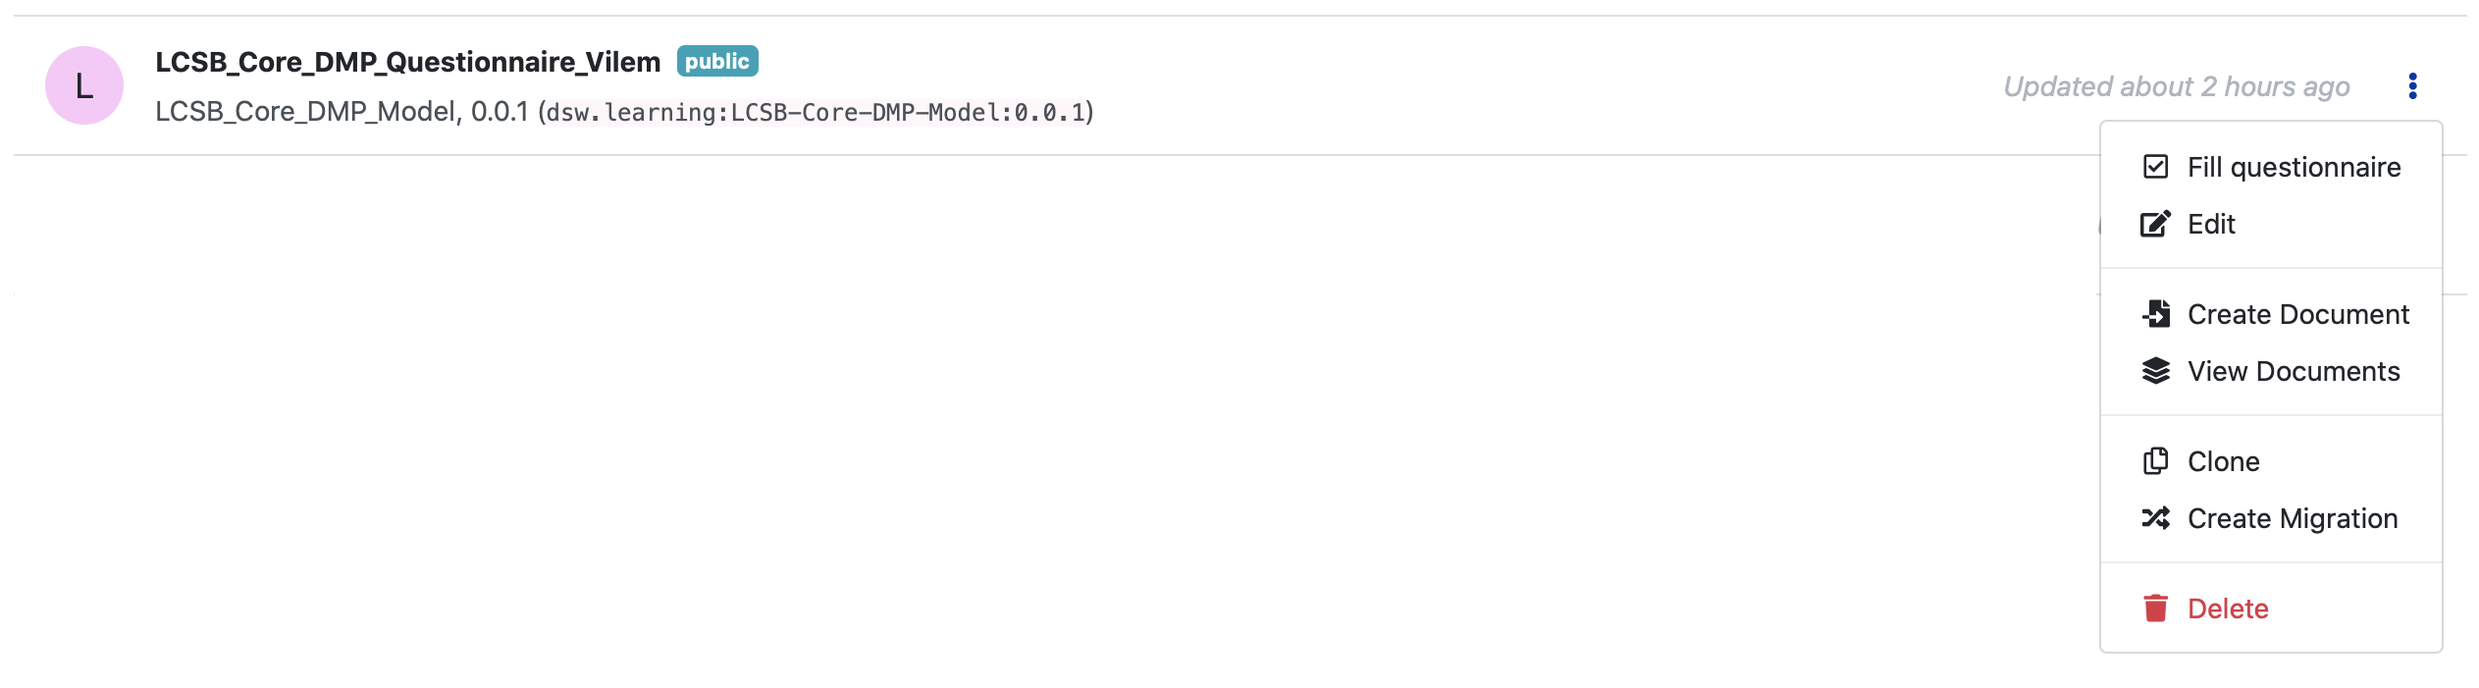
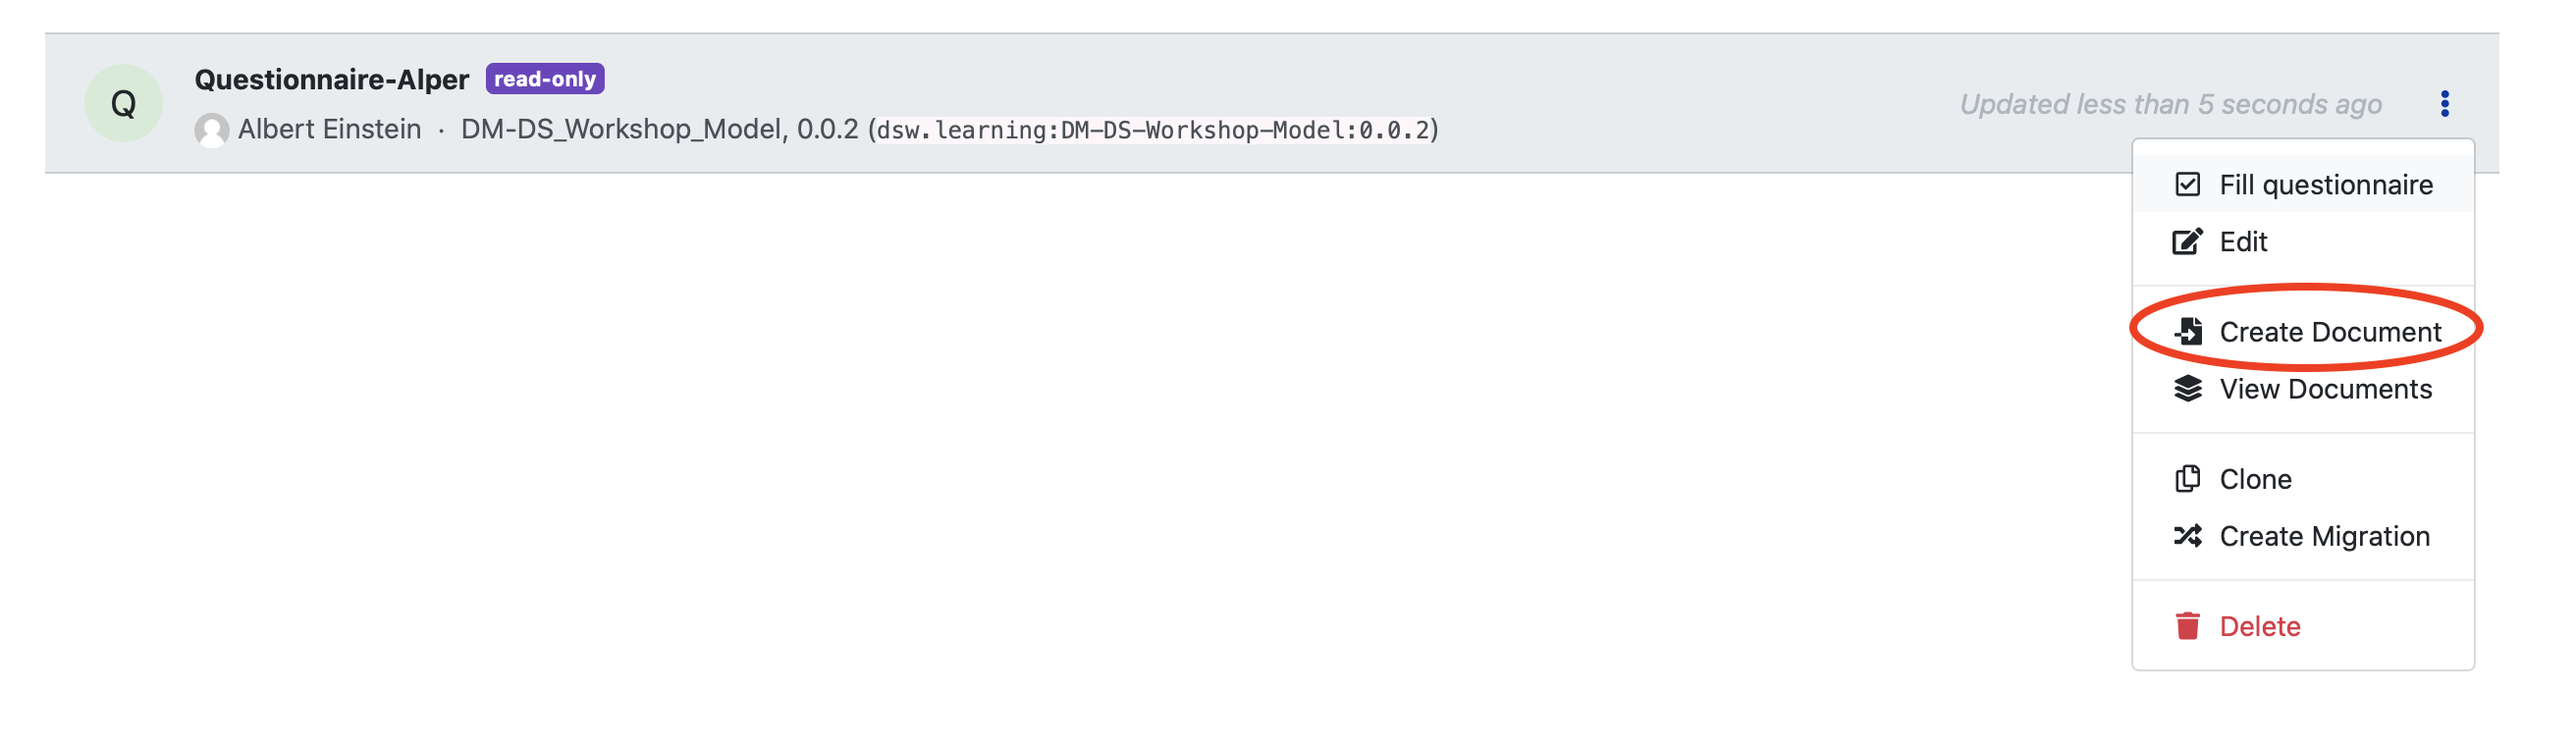
updated screenshots- minor text updates

diff --git a/README.md b/README.md
@@ -21,21 +21,20 @@ The tool comes pre-packed with a comprehensive default knowledge model. In this 
 
 
 1. Login to the DSW.<br/>
-2. On the left-hand side navigation menu click "Knowledge Models" to list models available. You should see "DM-DS Workshop Model" as below: <br/> <br/><br/>![Alt](./list_workshop_km.png)<br/><br/><br/>
-3. Click on the knowledge model to go to its overview page showing version history and available actions.<br/>
-4. Click on the create questionnaire button to create a new questionnaire from the model: <br/><br/><br/>![Alt](./km_create_questnre_1.png)<br/><br/><br/>
-5. Provide a name for your questionnaire, try to use a name that can distinguish your record from other participants e.g. your user id or name. Also, set the accessibility level of your model to "Public" or "Public Read-Only", then click "Save". <br/><br/><br/> ![Alt](./km_create_questnre_2.png)<br/><br/><br/>
-6. Your questionnaire will be displayed and is ready to be filled. <br/><br/><br/> ![Alt](./fill_questnre_1.png)<br/><br/><br/>
-7. The DSW provides a filtering feature that allows you to see questions only relevant to a particular phase of a research project. From the "Current Phase" list select "Before Submitting the DMP". This will allow you to view and answers all questions for our practical. <br/><br/><br/> ![Alt](./fill_questnre_2.png)<br/><br/><br/>
+2. On the left-hand side navigation menu click `Knowledge Models` to list models available. You should see `DM-DS Workshop Model` as below: <br/> <br/><br/>![Alt](./list_workshop_km.png)<br/><br/><br/>
+3. Click on the knowledge model named `DM-DS_Workshop_Model` to go to its overview page, which displays model's version history and available actions.<br/>
+4. Click `Create questionnaire` on top right to create a new questionnaire from the workshop model: <br/><br/><br/>![Alt](./km_create_questnre_1.png)<br/><br/><br/>
+5. Provide a name for your questionnaire, try to use a name that can distinguish your record from other participants e.g. your user id or name. Also, set the accessibility level of your questionnaire to `Public` or `Public Read-Only` and save. <br/><br/><br/> ![Alt](./km_create_questnre_2.png)<br/><br/><br/>
+6. Your questionnaire will be displayed and is ready to be filled. Under most of the questions you will find hints for the questions. <br/><br/><br/> ![Alt](./fill_questnre_1.png)<br/><br/><br/>
+7. The DSW provides a filtering feature that allows you to see questions only relevant to a particular phase of a research project. From the `Current Phase` list select `Before Submitting the DMP`. This will allow you to view and answers all questions for our practical. <br/><br/><br/> ![Alt](./fill_questnre_2.png)<br/><br/><br/>
 
 When filling in the questionnaire pay attention to the following:
 
- - do not forget to save your answers from time to time <br/><br/><br/>![Alt](./save_questnre.png)<br/><br/><br/>
- - under most questions you'll find an explanation that might help you with your answers <br/><br/><br/>![Alt](./questnre_hints.png)<br/><br/><br/>
- - for some questions you'll provide more than one answer, for instance when specifying "Contributors" in the "Administrative details" section. Clicking "Add" button at the end of the question will add a new empty answer <br/><br/><br/>![Alt](./add_answer.png)<br/><br/><br/>
+ - do not forget to **save** your answers from time to time <br/><br/><br/>![Alt](./save_questnre.png)<br/><br/><br/>
+ - for some questions you may provide more than one answer. If you want to add a new answer click the `Add` button at the end of your last answer. <br/><br/><br/>![Alt](./add_answer.png)<br/><br/><br/>
 
 ## Exercise 2: Export questionnaire
 
 Once you complete the questionnaire, you may export a copy of it as a document.  To do so:
 
-1. On the left-hand side navigation menu click "Questionnaires". Click the three dots menu next to your questionnaire and select "Create Document". <br/><br/><br/>![Alt](./export_questnre.png)<br/><br/><br/>
+1. On the left-hand side navigation menu click `Questionnaires`. Click the three dots menu next to your questionnaire and select `Create Document`. <br/><br/><br/>![Alt](./export_questnre.png)<br/><br/><br/>
